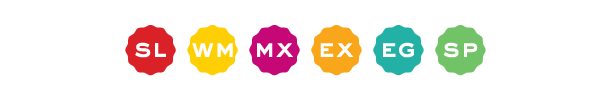
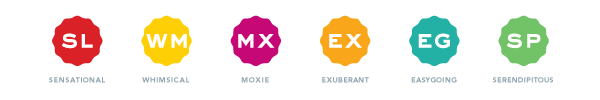
updated graphics for email

diff --git a/templates/email/base_email_lite.html b/templates/email/base_email_lite.html
@@ -208,7 +208,7 @@
                                     <td id="header" class="w640" width="640" align="center" bgcolor="#FFFFFF">
                                         <div align="center" style="text-align: center">
                                             <div id="brand-logo" class="brand-id">
-                                                <a href="http://www.vinely.com/"><img id="customHeaderImage" label="Header Image" editable="true" width="320" src="{{ EMAIL_STATIC_URL }}img/email/simple_email_header.png" class="w640" border="0" align="top" style="display: inline"></a>
+                                                <a href="http://www.vinely.com/"><img id="customHeaderImage" label="Header Image" editable="true" width="480" src="{{ EMAIL_STATIC_URL }}img/email/simple_email_header.png" class="w640" border="0" align="top" style="display: inline"></a>
                                             </div>
                                         </div>
                                     </td>
@@ -241,7 +241,8 @@
                                                                 <tr>
                                                                     <td class="w580" width="580">
                                                                         <div id="badges" class="brand-id">
-                                                                            <img id="badgesImg" label="Badges Image" editable="true" src="{{ EMAIL_STATIC_URL }}img/email/simple_email_footer.png" class="w640" border="0" align="top" style="display: inline">
+                                                                            <a href="https://www.vinely.com/uncover/personality/">
+                                                                            <img id="badgesImg" label="Badges Image" editable="true" src="{{ EMAIL_STATIC_URL }}img/email/simple_email_footer.png" class="w640" border="0" align="top" style="display: inline"></a>
                                                                         </div>
                                                                     </td>
                                                                 </tr>
